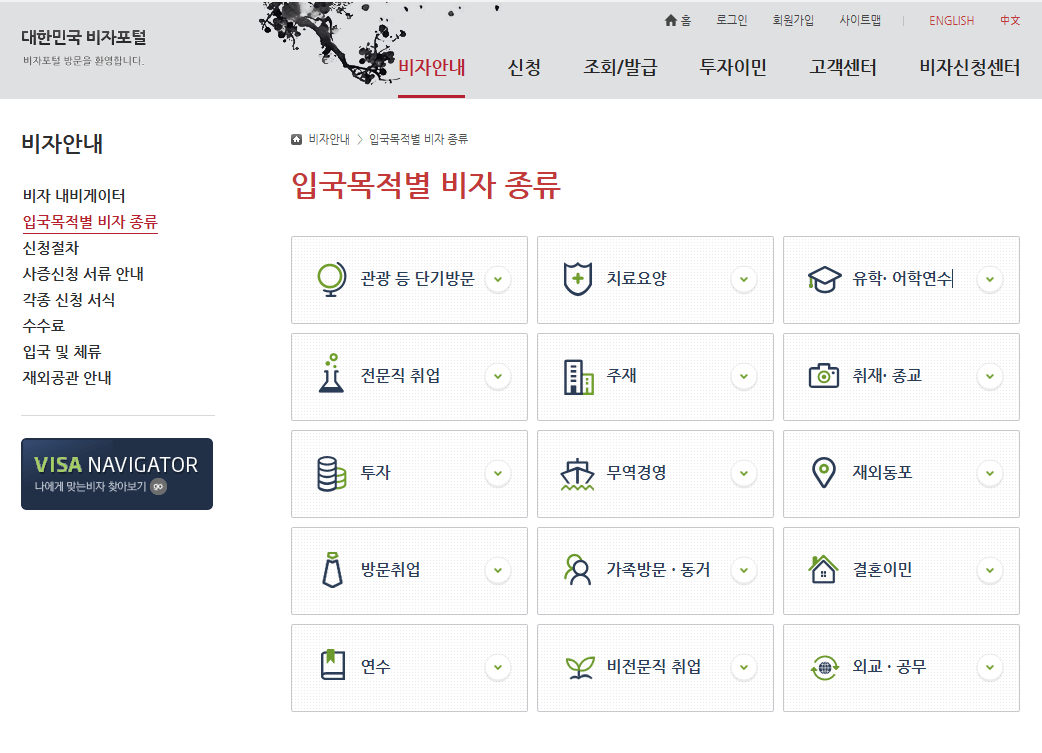
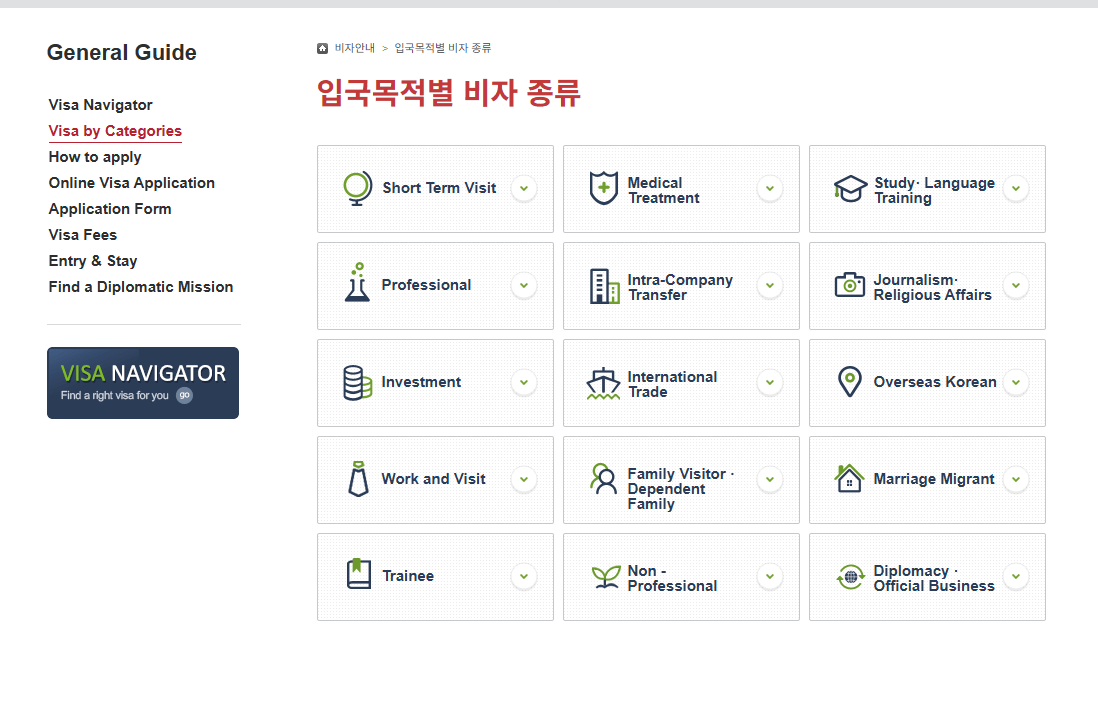
post(c-3-9): swap the three portal screenshots for the English interface
The last three Korean captures replaced with the portal's English view, so all
nine images on the post are now in the language its readers are reading. The
captions lose the apology about the interface language and say something useful
instead: fifteen purpose categories, twelve routes under Short Term Visit, and
Ordinary Tourist sitting tenth of the twelve rather than being the default.

The Ordinary Tourist detail page is the one worth having in English, because
its whole published scope is a single line and now the reader can see that for
themselves rather than take a translation of it on trust.

Claude-Session: https://claude.ai/code/session_013DnEzJ1LfT5rxAwq4dm3aA

diff --git a/src/content/posts/korea-c-3-9-tourist-visa.md b/src/content/posts/korea-c-3-9-tourist-visa.md
@@ -63,14 +63,14 @@ Intra-Company Transfer, Journalism·Religious Affairs, Investment, International
 Trade, Overseas Korean, Work and Visit, Family Visitor·Dependent Family,
 Marriage Migrant, Trainee, Non-Professional, and Diplomacy·Official Business.
 
-![The Korea Visa Portal's visa-types-by-purpose page, showing a grid of fifteen purpose categories](../../assets/entry/visa-1-by-purpose.png)
-<p class="figcap">Captured on the Korean interface — there is an <strong>ENGLISH</strong> toggle at the top right. The first card, 관광 등 단기방문, is <strong>Short Term Visit</strong>.</p>
+![The Korea Visa Portal's Visa by Categories page in English, showing a grid of fifteen purpose categories from Short Term Visit to Diplomacy and Official Business](../../assets/entry/visa-1-by-purpose.png)
+<p class="figcap">Fifteen purposes. A holiday is inside the first card, <strong>Short Term Visit</strong> — along with eleven other things.</p>
 
 Open that first card and it expands into a list that makes the point better
 than any explanation:
 
-![The short-visit category expanded, listing B-1, B-2-1, B-2-2, C-3-1, C-3-2, C-3-4, C-3-5, C-3-6, C-3-8, C-3-9, H-1 and C-3-10](../../assets/entry/visa-2-short-visit-codes.png)
-<p class="figcap">Twelve routes under one heading. C-3-9 is <strong>일반관광 / Ordinary Tourist</strong> — one of them, not the default.</p>
+![The Short Term Visit category expanded on the Visa Portal, listing twelve routes from Visa Exempted B-1 through to Direct Transit Visa C-3-10](../../assets/entry/visa-2-short-visit-codes.png)
+<p class="figcap">Twelve routes under one heading. <strong>Ordinary Tourist (C-3-9)</strong> is the tenth of them, not the default.</p>
 
 ```
 Visa Exempted                 B-1        Business Visitor (Agreement)   C-3-5
@@ -95,8 +95,8 @@ arranged, not by how long it runs.
 
 The portal's entire published scope for Ordinary Tourist is one sentence:
 
-![The Visa Portal's detail page for Ordinary Tourist, showing eligible applicants and activities allowed](../../assets/entry/visa-3-c39-definition.png)
-<p class="figcap">Under <em>Eligible applicants or activities allowed</em>, one line.</p>
+![The Visa Portal's detail page for Ordinary Tourist, showing a single line under Eligible applicants or activities allowed](../../assets/entry/visa-3-c39-definition.png)
+<p class="figcap">Under <em>Eligible applicants or activities allowed</em>, one line. That is the whole published scope.</p>
 
 > A person who plans to visit Korea on the purpose of travel for holidays or leisure.
 
